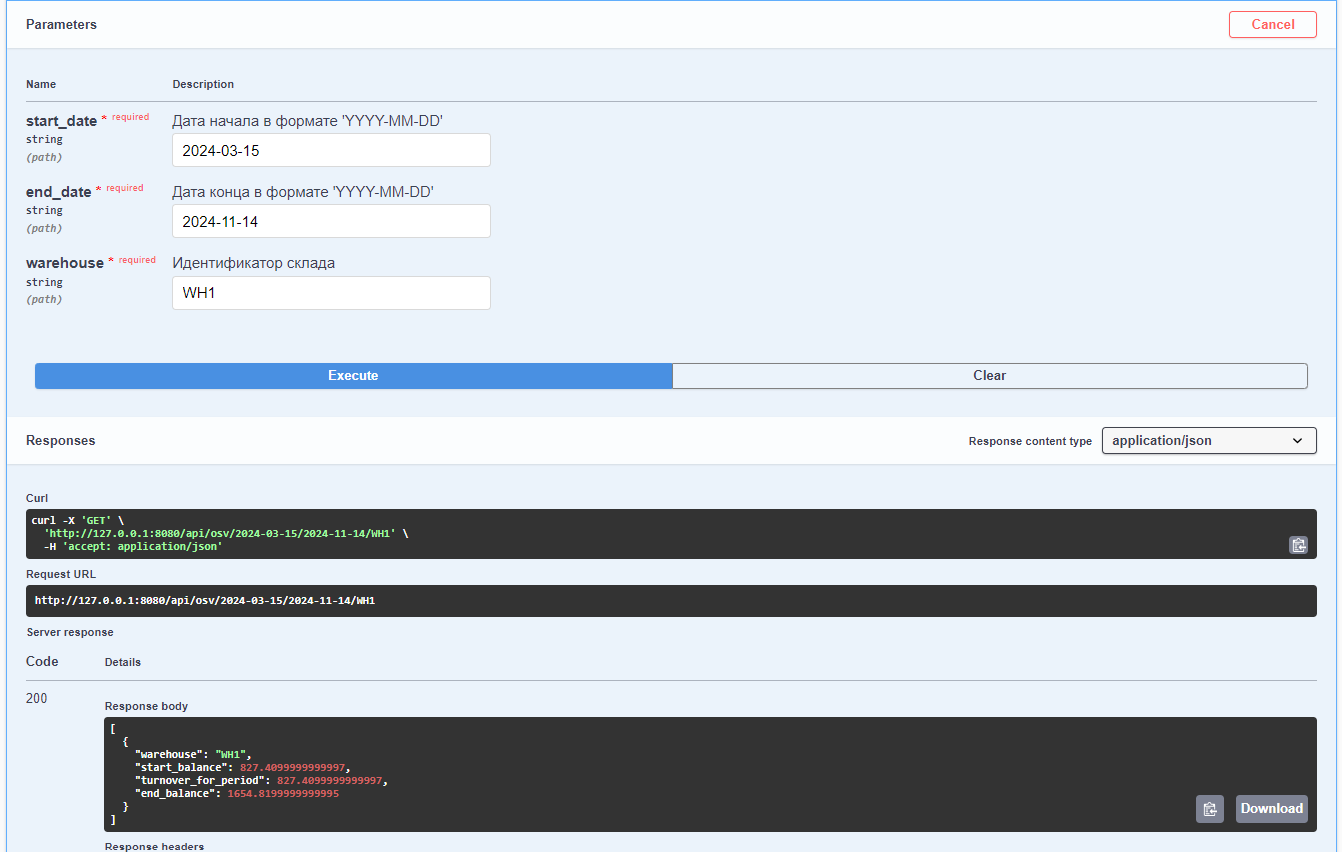
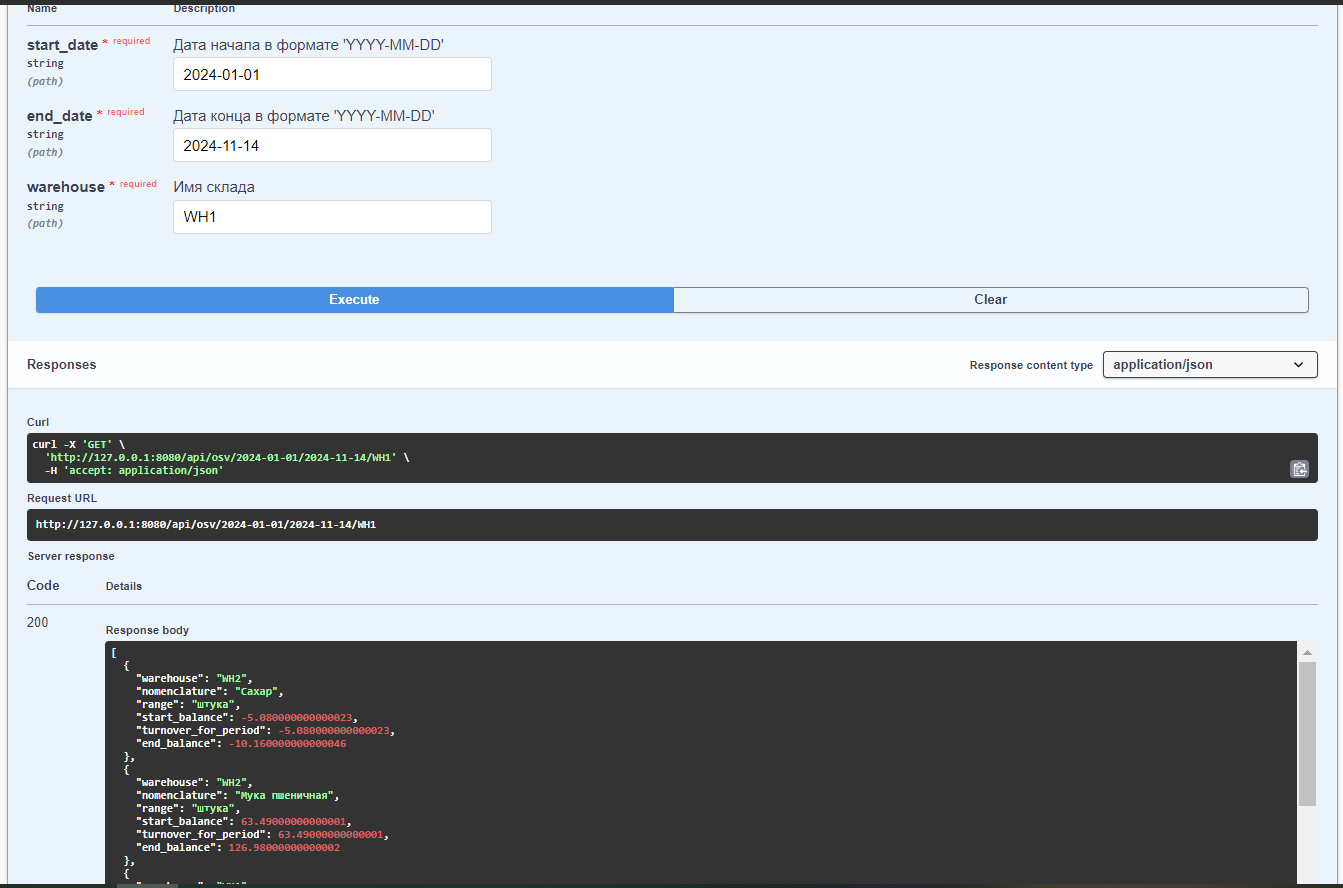
add test

diff --git a/tests/test_tbs_report.py b/tests/test_tbs_report.py
@@ -1,0 +1,100 @@
+import json
+import unittest
+
+from src.core.validator import operation_exception
+from src.data_repository import data_repository
+from src.models.warehouse_turnover import warehouse_turnover_model
+from src.reports.tbs_report import tbs_report
+from src.repository_manager import repository_manager
+from src.settings_manager import settings_manager
+from src.start_service import start_service
+
+
+class TestTBSReport(unittest.TestCase):
+    """Тесты для формирования TBS отчета"""
+
+    def setUp(self):
+        """Подготовка данных перед тестами"""
+        self.repository = data_repository()
+        self.manager = settings_manager()
+        self.manager.open("../settings.json")
+        self.rep_manager = repository_manager(self.repository, self.manager)
+        self.service = start_service(self.repository, self.manager, self.rep_manager)
+        self.service.create()
+
+        self.warehouse_1 = self.repository.data[data_repository.warehouse_key()][0]
+
+        self.nomenclature_1 = self.repository.data[data_repository.nomenclature_key()][0]
+        self.nomenclature_2 = self.repository.data[data_repository.nomenclature_key()][1]
+
+        self.range_1 = self.repository.data[data_repository.range_key()][0]
+        self.range_2 = self.repository.data[data_repository.range_key()][1]
+
+    def test_tbs_report_empty_data(self):
+        """Проверка на пустые данные"""
+        report = tbs_report()
+
+        # Попытка создать отчет с пустыми данными
+        with self.assertRaises(operation_exception):
+            report.create([])
+
+    def test_tbs_report_with_valid_data(self):
+        """Проверка корректности данных в отчете TBS"""
+        report = tbs_report()
+
+        # Данные для формирования отчета
+        turnover_data_before = [
+            warehouse_turnover_model.create(warehouse=self.warehouse_1,
+                                            nomenclature=self.nomenclature_1,
+                                            range=self.range_1,
+                                            turnover=25.0),
+            warehouse_turnover_model.create(warehouse=self.warehouse_1,
+                                            nomenclature=self.nomenclature_2,
+                                            range=self.range_1,
+                                            turnover=100.0)
+        ]
+        turnover_data_between = [
+            warehouse_turnover_model.create(warehouse=self.warehouse_1,
+                                            nomenclature=self.nomenclature_1,
+                                            range=self.range_1,
+                                            turnover=240.0),
+            warehouse_turnover_model.create(warehouse=self.warehouse_1,
+                                            nomenclature=self.nomenclature_2,
+                                            range=self.range_1,
+                                            turnover=22.0)
+        ]
+
+        data = [turnover_data_before, turnover_data_between]
+
+        # Генерация отчета
+        report.create(data)
+
+        self.assertTrue(len(report.result) > 0)
+
+        report_json = json.loads(report.result)
+        for entry in report_json:
+            self.assertIn("warehouse", entry)
+            self.assertIn("nomenclature", entry)
+            self.assertIn("start_balance", entry)
+            self.assertIn("turnover_for_period", entry)
+            self.assertIn("end_balance", entry)
+            self.assertEqual(entry["end_balance"], entry["start_balance"] + entry["turnover_for_period"])
+
+            if entry["nomenclature"] == self.nomenclature_1.name:
+                expected_start_balance = 25.0
+                expected_turnover_for_period = 240.0
+                expected_end_balance = expected_start_balance + expected_turnover_for_period
+            elif entry["nomenclature"] == self.nomenclature_2.name:
+                expected_start_balance = 100.0
+                expected_turnover_for_period = 22.0
+                expected_end_balance = expected_start_balance + expected_turnover_for_period
+            else:
+                continue
+
+            self.assertEqual(entry["start_balance"], expected_start_balance)
+            self.assertEqual(entry["turnover_for_period"], expected_turnover_for_period)
+            self.assertEqual(entry["end_balance"], expected_end_balance)
+
+
+if __name__ == '__main__':
+    unittest.main()

diff --git a/tests/test_repository_manager.py b/tests/test_repository_manager.py
@@ -1,0 +1,68 @@
+import json
+import unittest
+import os
+from src.data_repository import data_repository
+from src.settings_manager import settings_manager
+from src.repository_manager import repository_manager
+from src.start_service import start_service
+
+
+class TestRepositoryManager(unittest.TestCase):
+    """Тесты для методов save_data и load_data"""
+
+    def setUp(self):
+        """Подготовка данных перед тестами"""
+        self.repository = data_repository()
+        self.manager = settings_manager()
+        self.manager.open("../settings.json")
+        self.rep_manager = repository_manager(self.repository, self.manager)
+        self.service = start_service(self.repository, self.manager, self.rep_manager)
+        self.service.create()
+
+    def test_save_data_creates_file_and_is_not_empty(self):
+        """Тестируем метод save_data: создание файла и его непустое содержимое"""
+
+        self.rep_manager.save_data()
+
+        file_path = "data_repository.json"
+        self.assertTrue(os.path.exists(file_path), "Файл data_repository.json не был создан.")
+
+        with open(file_path, "r", encoding="utf-8") as file:
+            content = file.read()
+            self.assertGreater(len(content), 0, "Файл data_repository.json пуст.")
+            data = json.loads(content)
+
+            # Проверяем первое значение в файле
+            group_nomenclature = data.get("group_nomenclature", [])
+            self.assertGreater(len(group_nomenclature), 0, "Массив 'group_nomenclature' пуст.")
+            first_item = group_nomenclature[0]
+
+            # Проверяем соответствие первого элемента
+            self.assertEqual(first_item["name"], "Заморозка",
+                             "Неверное имя для первого элемента в 'group_nomenclature'.")
+
+        os.remove(file_path)
+
+    def test_load_data_restores_data(self):
+        """Тестируем метод load_data: восстановление данных из файла"""
+
+        # Сохраняем данные
+        self.rep_manager.save_data()
+
+        # Запоминаем какое-то значение из репозитория, например, первый элемент в group_nomenclature
+        original_value = self.repository.data[data_repository.group_nomenclature_key()][0]
+
+        # Вызовем метод load_data для восстановления данных
+        self.rep_manager.load_data()
+
+        # Проверим, что данные были восстановлены корректно, сравнив значения
+        restored_value = self.repository.data[data_repository.group_nomenclature_key()][0]
+
+        # Сравниваем старое и новое значение
+        self.assertEqual(original_value.name, restored_value.name, "Имя восстановленного элемента не совпадает.")
+
+        os.remove("data_repository.json")
+
+
+if __name__ == '__main__':
+    unittest.main()

diff --git a/src/reports/tbs_report.py b/src/reports/tbs_report.py
@@ -2,7 +2,6 @@ import json
 
 from src.core.abstract_report import abstract_report
 from src.core.format_reporting import format_reporting
-from src.core.transaction_type import transaction_type
 from src.core.validator import validator, operation_exception
 
 
@@ -25,7 +24,8 @@ class tbs_report(abstract_report):
         for turnover_before, turnover_between in zip(turnover_data_before, turnover_data_between):
             report_entry = {
                 "warehouse": turnover_before.warehouse.name,
-                "nomenclature": turnover_before.nomenclature.name,
+                "nomenclature": turnover_before.nomenclature.full_name,
+                "range": turnover_before.range.name,
                 "start_balance": turnover_before.turnover,
                 "turnover_for_period": turnover_between.turnover,
                 "end_balance": turnover_before.turnover + turnover_between.turnover

diff --git a/main.py b/main.py
@@ -285,7 +285,6 @@ def get_tbs_report(start_date, end_date, warehouse):
         report = rep_factory.create(format_reporting.TBS)
         report.create(turnover_data)
 
-        #return report.result
         return Response(report.result, status=200, mimetype='application/json')
 
     except Exception as ex:
